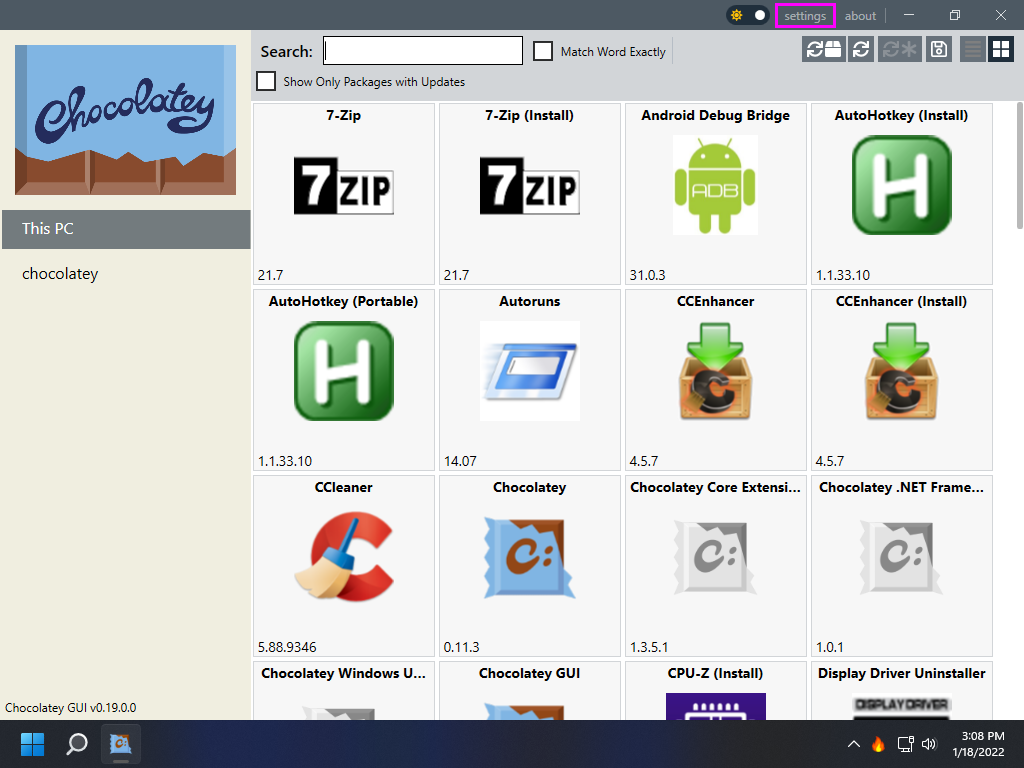
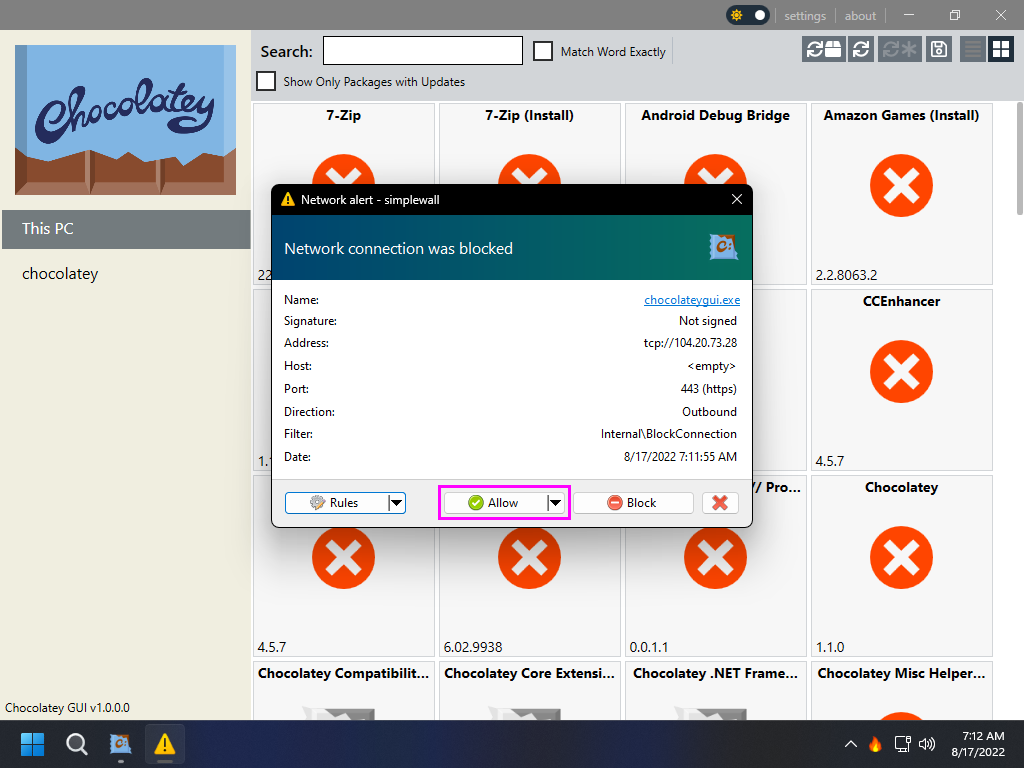
User Settings Expanded
* Add: Gitleaks to `PULL_REQUEST_TEMPLATE.md` and merged New Feature Submission section into All Submissions
* Add: new function `Add-UserFolderIcon` will assign a folder icon utilizing the `desktop.ini` file
* Add: new function `Find-GitRelease` will grab a file that matches a pattern from the latest release of a project on GitHub, returns a URL
* Add: new `user_settings.ps1` template variable named `$MicrosoftEdge` used to toggle the removal of Edge, defaults to non-removal as this also removes WebView
* Add: new `user_settings.ps1` template variable named `$MsysPkgs` to allow the user to control which additional MSYS2 / Git for Windows packages are installed automatically
* Add: ScheduledTask that runs as Admin on boot to remove Windows Defender services if user chooses to remove Defender, this takes care of Windows Update continuously re-enabling the services
* Add: default folders created and assigned custom icons `.cache`, `.config` and `.local`
* Add: shields.io for Gitleaks added to `README.md`
* Modify: refactor; more comments where possible
* Modify: refactor; old methods of extracting zip files have been replaced with their newer counterparts
* Modify: refactor; additional MSYS2 package installation now references `$MsysPkgs` for the list of packages to install
* Modify: `README.md`; hard-coded the link to actions for the CI shields.io
* Modify: `README.md`; updated with proper white-spacing and underscores in code blocks replaced with single quotes
[…]

diff --git a/README.md b/README.md
@@ -2,7 +2,7 @@
 
 ![LOGO](README_media/LOGO.png)
 
-[![Contributor Covenant](https://img.shields.io/badge/contributor%20covenant-2.1-4baaaa.svg)](CODE_OF_CONDUCT.md) &nbsp; [![Semantic Versioning](https://img.shields.io/badge/semantic%20versioning-1.2.2-333333.svg)](https://semver.org) &nbsp; [![GitHub](https://img.shields.io/github/license/kyaulabs/win11tweak)](LICENSE) &nbsp; [![CI](https://img.shields.io/github/workflow/status/kyaulabs/win11tweak/CI)](../../actions)
+[![Contributor Covenant](https://img.shields.io/badge/contributor%20covenant-2.1-4baaaa.svg)](CODE_OF_CONDUCT.md) &nbsp; [![Semantic Versioning](https://img.shields.io/badge/semantic%20versioning-1.2.2-333333.svg)](https://semver.org) &nbsp; [![GitHub](https://img.shields.io/github/license/kyaulabs/win11tweak)](LICENSE) &nbsp; [![Gitleaks](https://img.shields.io/badge/protected%20by-gitleaks-blue)](https://github.com/zricethezav/gitleaks) &nbsp; [![CI](https://img.shields.io/github/workflow/status/kyaulabs/win11tweak/CI)](https://github.com/kyaulabs/win11tweak/actions)
 
 ## Disclaimer
 
@@ -24,6 +24,7 @@ damage that may ensue.
   * [Download Win11Tweaks](#download-win11tweaks)
   * [Anti-Virus (optional)](#anti-virus-optional)
   * [Running Win11Tweaks](#running-win11tweaks)
+  * [Microsoft Edge Removal (optional)](#microsoft-edge-removal-optional)
   * [Anti-Virus Removal (optional)](#anti-virus-removal-optional)
   * [Configuring Windows](#configuring-windows)
   * [Windows Terminal](#windows-terminal)
@@ -45,15 +46,17 @@ This set of scripts attempts to maintain a vanilla appearance while gutting most
 
 * Microsoft Telemetry/Tracking Stripped
 
+* *(Optional)* Microsoft Edge Completed Removed
+
 * *(Optional)* Windows Defender Completed Removed
 
 * Chocolatey Package Manger, manage packages like a Linux system
 
 * MSYS2 is used for a Linux terminal
 
-* Git for Windows is directly integrated into MSYS2, this uses the faster native version of Git with the added benefit of being able to use the default MSYS2 package manager `pacman`
+* Git for Windows directly integrated into MSYS2, this uses the faster native version of Git with the added benefit of being able to use the default MSYS2 package manager `pacman` [^1]
 
-* YubiKey Ready! [^1]
+* YubiKey Ready! [^2]
 
 * *(Optional)* GPG and SSH key forwarding over SSH
 
@@ -65,7 +68,8 @@ This set of scripts attempts to maintain a vanilla appearance while gutting most
   
   * OpenShell is used for a customizable start menu experience
 
-[^1]: This assumes you followed [drduh's YubiKey Guide](https://github.com/drduh/YubiKey-Guide) in order to setup your YubiKey
+[^1]: Install Git for Windows inside MSYS2 proper [git-for-windows/git](https://github.com/git-for-windows/git/wiki/Install-inside-MSYS2-proper)
+[^2]: This assumes you followed [drduh's YubiKey Guide](https://github.com/drduh/YubiKey-Guide) in order to setup your YubiKey
 
 ### Configuration
 
@@ -174,7 +178,7 @@ With the computer updated and activated it is now time to download the script. D
 
 ```
 🚧 WARNING
-If you choose to keep Windows Defender installed, the script used to disable Defender _defender.ps1_ will
+If you choose to keep Windows Defender installed, the script used to disable Defender 'defender.ps1' will
 get flagged by Defender itself, this is normal behavior.
 ```
 
@@ -251,14 +255,18 @@ Finally run the script using `main.cmd`.
 
 ![Windows_09](README_media/Windows_09.png)
 
-The script will take quite a while to finish, at some point it will ask you to uninstall the two Microsoft Edge components. If this happens you will be presented with the following screen, make sure to select `Uninstall` for both.
+The script will take quite a while to finish.
+
+### Microsoft Edge Removal (optional)
+
+If chosen, at some point it will ask you to uninstall the two Microsoft Edge components. If this happens you will be presented with the following screen, make sure to select `Uninstall` for both.
 
 ![Script_01](README_media/Script_01.png)
 
 ```
 ❗ DO NOT SKIP ❗
 It is possible that the second of which, uninstalling MSEdge itself, will popup two Internet Explorer
-errors in the background. These errors will need to be cleared by ALT+TABing and selecting _OK_ before
+errors in the background. These errors will need to be cleared by ALT+TABing and selecting 'OK' before
 the script can continue.
 ```
 
@@ -333,8 +341,8 @@ When finished, select `OK` in the bottom right to save the changes. It will prom
 
 ```
 🚧 WARNING
-Naturally this can be replaced with a browser of your choosing, I would recommend you at least give Brave a
-try if you have never used it.
+Naturally this can be replaced with a browser of your choosing, I would recommend you at least give Brave
+a try if you have never used it.
 ```
 
 Next, install the Brave web browser with the `BraveSetup.exe` on the desktop which has been pre-downloaded for you. Once open, feel free to click `Skip welcome tour` in the bottom-left corner.
@@ -405,7 +413,15 @@ In the `Settings` menu enable `Load on system startup`,  `Start minimized`, and 
 
 ![Simplewall_02](README_media/Simplewall_02.png)
 
-Click `Enable filters` in the toolbar then again in the popup dialog in order to permanently replace the Windows Firewall with SimpleWall.
+Click `Enable filters` in the toolbar, making sure to uncheck `Disable Windows Firewall` then again clicking `Enable filters` in the popup dialog in order to permanently activate simplewall.
+
+![Simplewall_03](README_media/Simplewall_03.png)
+
+```
+📌 NOTE
+simplewall can fully replace Windows Firewall however in Windows 11 this will trip the firewall
+failure inside of Windows Security (what use to be called Security Center).
+```
 
 Applications will popup asking for internet access, stuff that is required for Windows to function are as follows (it is safe to allow everything in this list):
 
@@ -414,7 +430,10 @@ Applications will popup asking for internet access, stuff that is required for W
 * `Microsoft Content`: part of search
 * `Microsoft Store`: the store uwp app
 * `mousocoreworker.exe`: Windows update client
+* `microsoftedgeupdate.exe`: Microsoft Web Browser Update
+* `msedge.exe`: Microsoft Web Browser (if you are using a different one feel free to block this and the update above)
 * `mstsc.exe`: remote desktop connection
+* `pwsh.exe`: PowerShell v7.x
 * `sihclient.exe`: Windows update background installer
 * `simplewall.exe`: 3rd party firewall
 * `spoolsv.exe`: network printing
@@ -422,6 +441,7 @@ Applications will popup asking for internet access, stuff that is required for W
 * `svchost.exe`: Windows service host process
 * `System`: Windows NT kernel
 * `systemsettings.exe`: Windows update related
+* `taskhostw.exe`: scheduled tasks are needed for windows update
 * `usocoreworker.exe`: Windows update client
 
 NVIDIA Graphics Cards Allow List:
@@ -455,11 +475,8 @@ Things to block:
 * `foxitpdfreader.exe`: Foxit PDF Reader (pdf's themselves do not need internet)
 * `foxitpdfreaderupdater.exe`: Foxit PDF Reader update checker
 * `keepassxc.exe`: KeePassXC update checker
-* `microsoftedgeupdate.exe`: Microsoft Web Browser Update
-* `msedge.exe`: Microsoft Web Browser (if you are using a different one)
 * `msiexec.exe`: Microsoft Installer (system32 and syswow64)
 * `onedrivesetup.exe`: if you are not using OneDrive
-* `taskhostw.exe`: Scheduled tasks shouldn't need network access (unless you run tasks that do)
 * `wermgr.exe`: Windows error reporting manager (telemetry)
 * `Windows Feature Experience Pack`: Windows Start Menu ads and telemetry
 
@@ -469,23 +486,27 @@ When in doubt, choose the `X` instead of block and if the program fails to work,
 
 ### Chocolatey
 
-Launch the package manager `Chocolatey GUI` from the Start Menu in the Utilities submenu. Click the `settings` button in the upper right of the application.
+Launch the package manager `Chocolatey GUI` from the Start Menu in the Utilities sub-menu. The popup is from simplewall, this is what you will receive anytime a new application tries to access the internet. For Chocolatey GUI we naturally need it to access the internet so selecting `Allow` is the preferred option here.
 
 ![Choco_01](README_media/Choco_01.png)
 
-Turn off the options `DefaultToTileViewForLocalSource` and `DefaultToTileViewForRemoteSource`.
+Click the `settings` button in the upper right of the application.
 
-![Choco_02](README_media/Choco_02.png)
+![Choco_01](README_media/Choco_02.png)
 
-Scroll to the bottom and enable the two options `DefaultToDarkMode` and `PreventUsageOfUpdateAllButton`. Closing setting by clicking the round left arrow button to the left of the Settings title.
+Turn off the options `Default to Tile View for Local Source` and `Default to Tile View for Remote Source`, then turn on the option `Default to Dark Mode`.
 
-![Choco_03](README_media/Choco_03.png)
+![Choco_02](README_media/Choco_03.png)
+
+Scroll down near the bottom and enable the option `Prevent Usage of Update All Button`. Closing setting by clicking the round left arrow button to the left of the Settings title.
+
+![Choco_03](README_media/Choco_04.png)
 
 When updates are detected you will see a new version listed to the right of current versions highlighted with the color red. To update, simple right click the application and choose `Update`.
 
-![Choco_04](README_media/Choco_04.png)
+![Choco_04](README_media/Choco_05.png)
 
-## Attribution & References
+## Attribution
 
 Without all of the following this guide would not have been possible.
 
@@ -493,7 +514,7 @@ Without all of the following this guide would not have been possible.
 * [tweaks & fixes for windows 10 - mostly powershell](https://github.com/equk/windows)
 * [Win10 Initial Setup Script](https://github.com/Disassembler0/Win10-Initial-Setup-Script)
 * [Windows TenForums](https://www.tenforums.com/)
-* [Summary of AV Test Results - Jan 2022](https://www.reddit.com/r/antivirus/comments/rzw1me/summary_of_av_test_results_january_2022/)
+* [Summary of AV Test Results - July 2022](https://www.reddit.com/r/antivirus/comments/w1rcgi/summary_of_av_test_results_july_2022/)
 * [Flat-Remix Icon Theme](https://github.com/daniruiz/flat-remix)
 * [agave font](https://github.com/agarick/agave)
 * [Mixed wallpaper](https://www.deviantart.com/i5yal/art/Mixed-wallpaper-744877376)

diff --git a/.github/PULL_REQUEST_TEMPLATE.md b/.github/PULL_REQUEST_TEMPLATE.md
@@ -2,17 +2,19 @@
 
 # References
 
+# Gitleaks Output
+
+*Replace this text with the output of `gitleaks detect -v` wrapped in code block.*
+
 # PR Checklist
 
 ## All Submissions:
 
 * [ ] Have you followed the guidelines in our Contributing document?
 * [ ] Have you checked to ensure there aren't other open [Pull Requests](../../../pulls) for the same update/change?
-
-## New Feature Submissions:
-
 * [ ] Does your submission ensure overall functionality?
 * [ ] Have you lint your code locally prior to submission?
+* [ ] Have you run your code through `zricethezav/gitleaks` prior to submission?
 
 ## Changes to Core Features:
 
